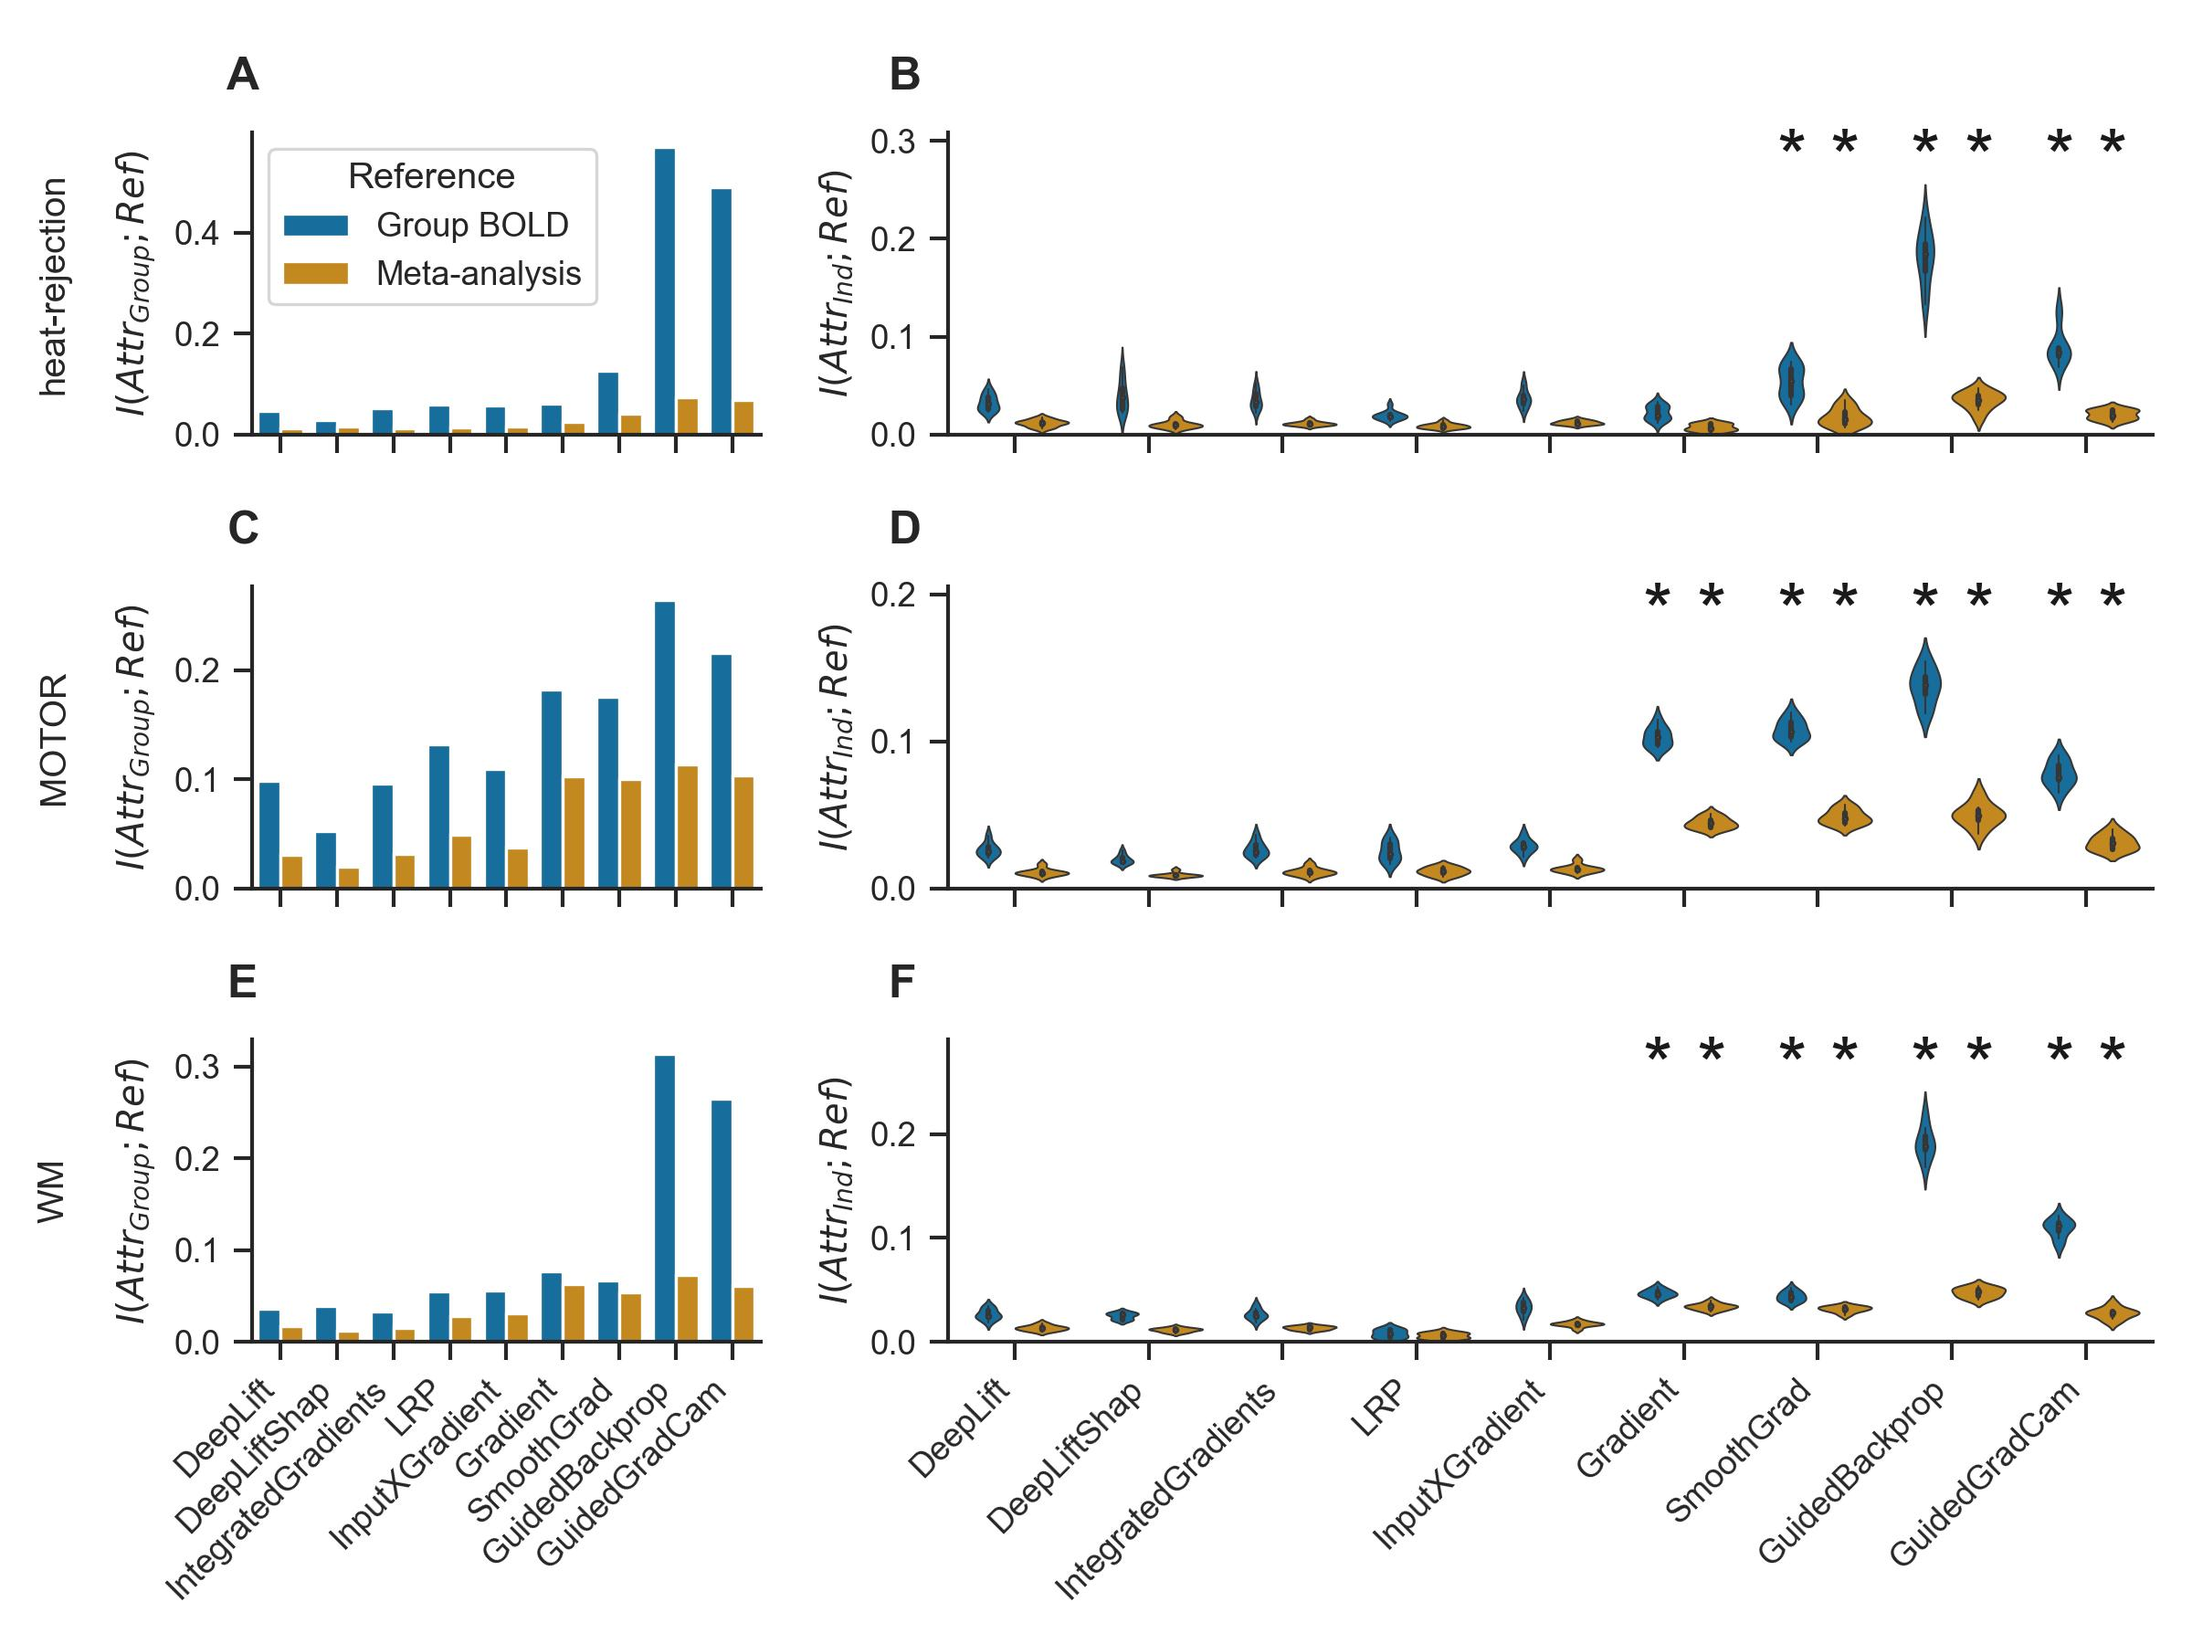
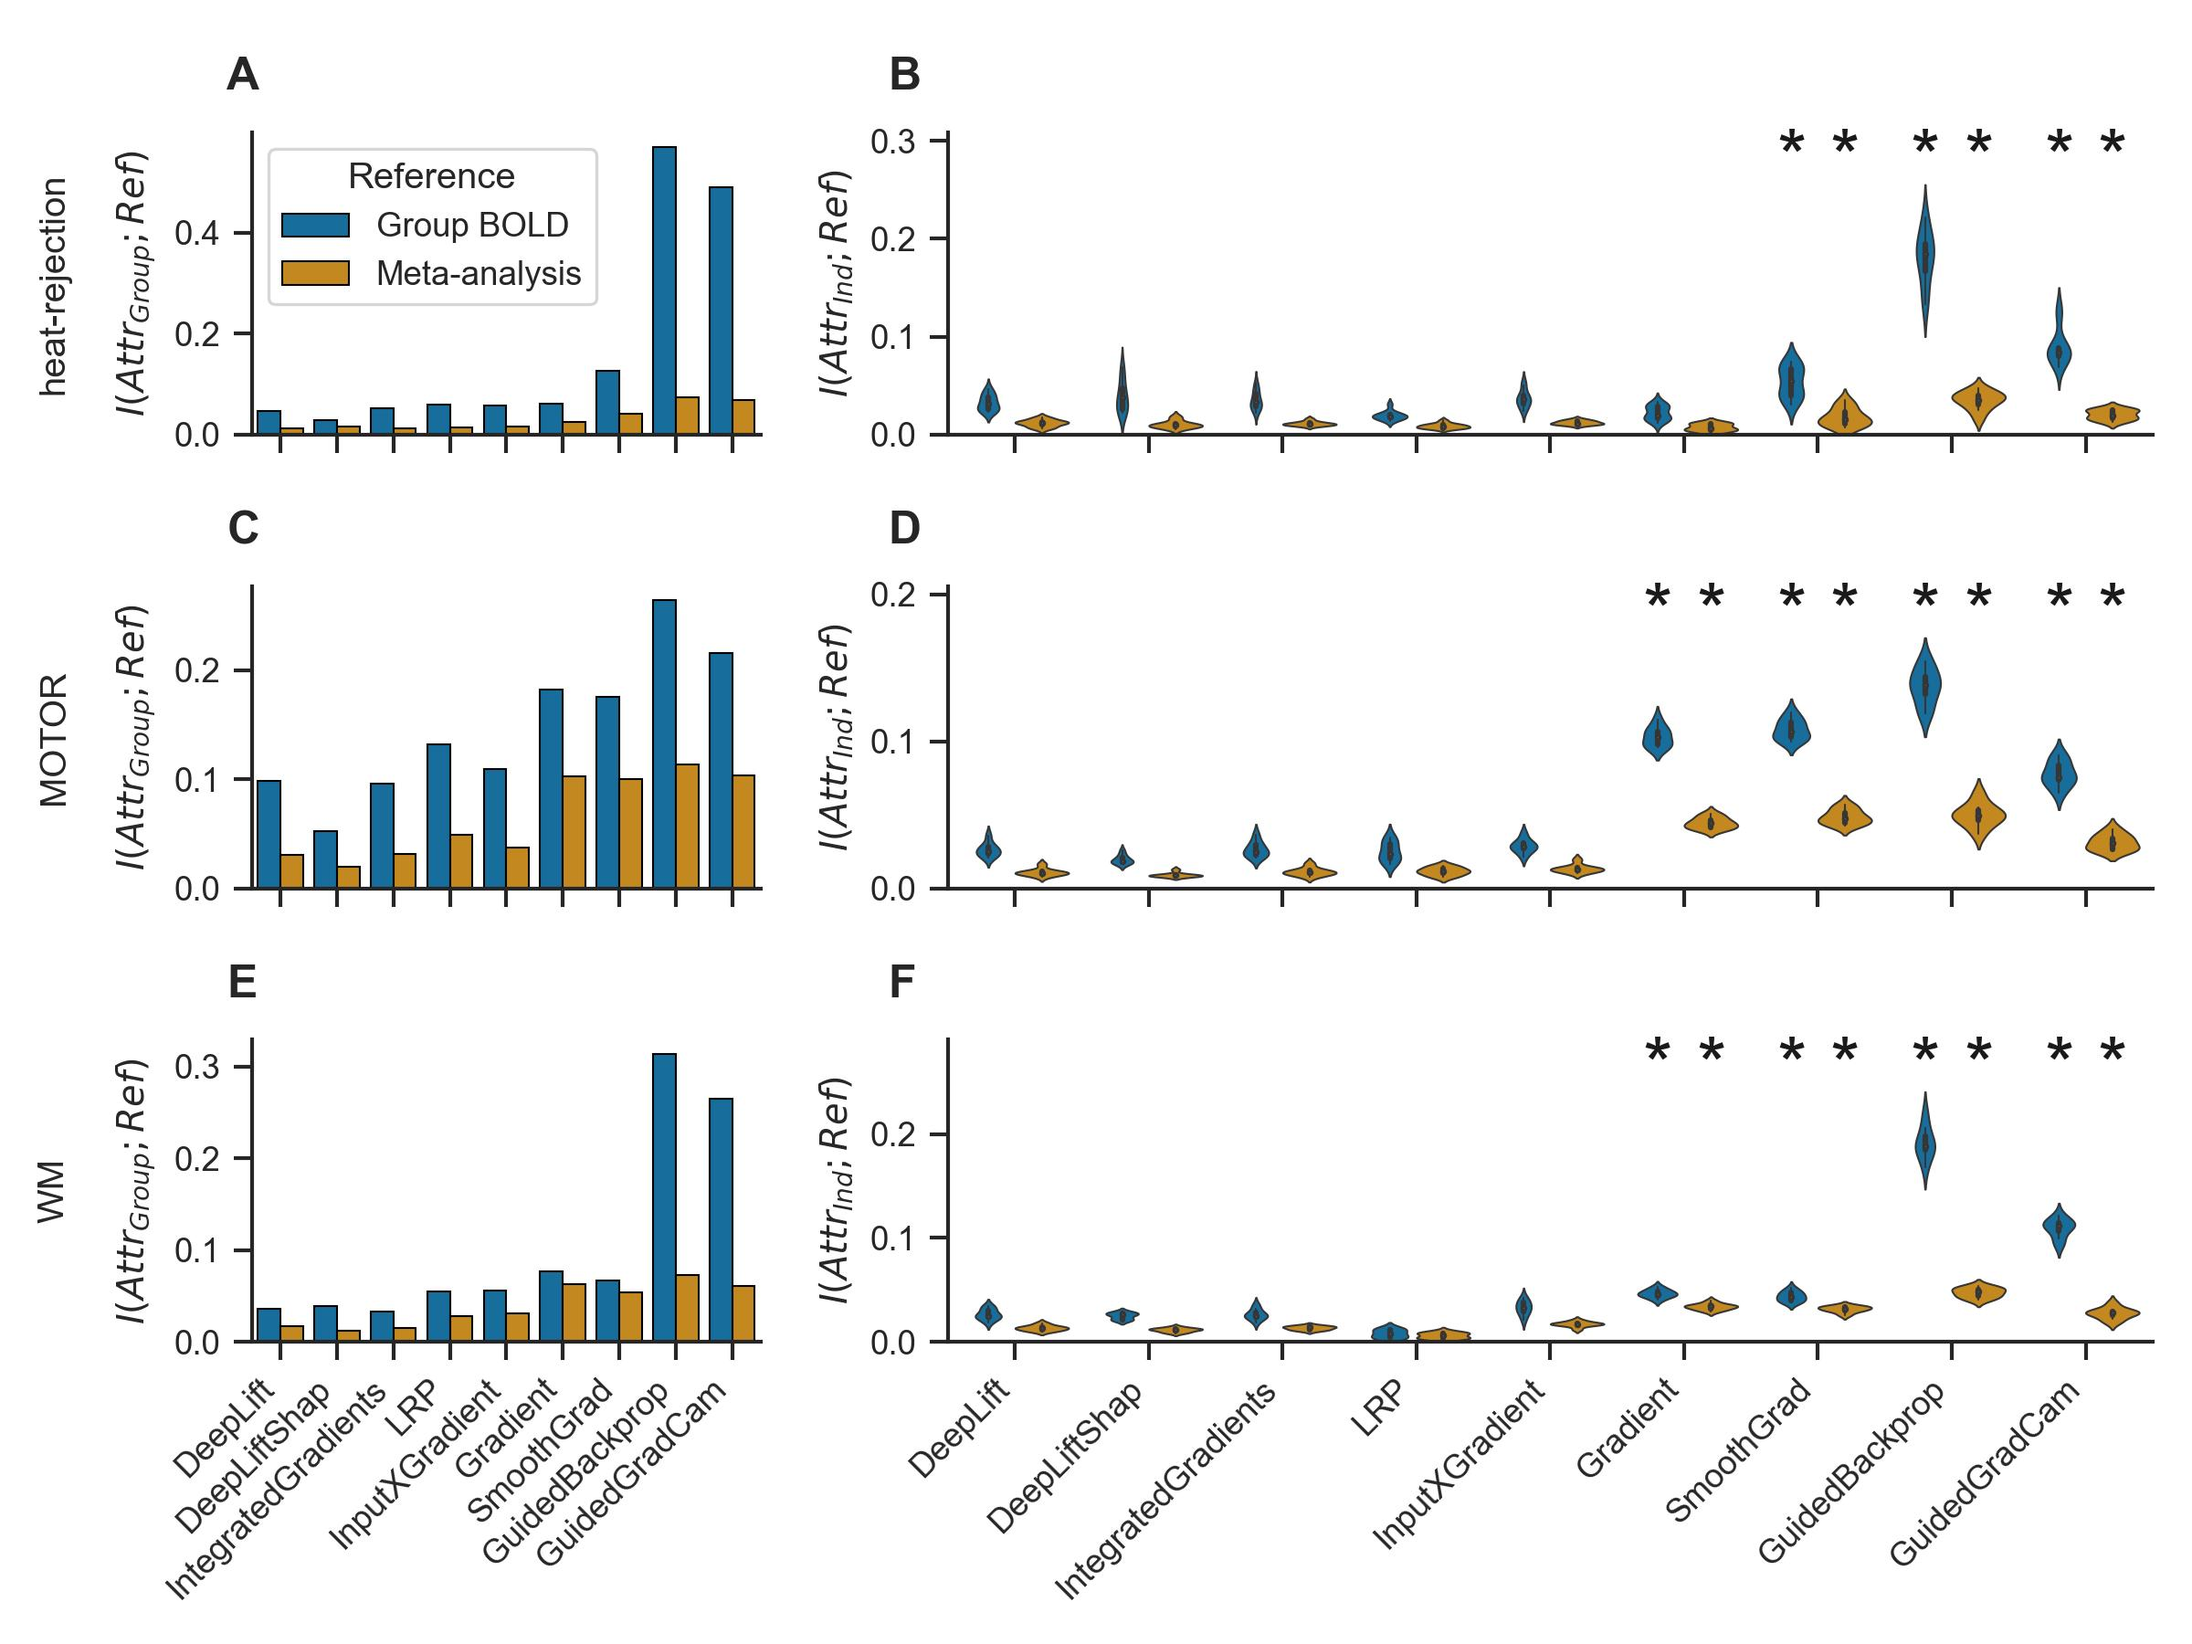
give outline to barplot

diff --git a/scripts/fig_brain_map_similarities.py b/scripts/fig_brain_map_similarities.py
@@ -121,6 +121,8 @@ def fig_brain_maps_similarity(config=None) -> None:
                     ax=ax,
                     order=method_ordering,
                     palette=sns.color_palette("colorblind",2),
+                    linewidth=.5,
+                    edgecolor="0",
                     ci=None,
                 )
                 if task != 'heat-rejection':
